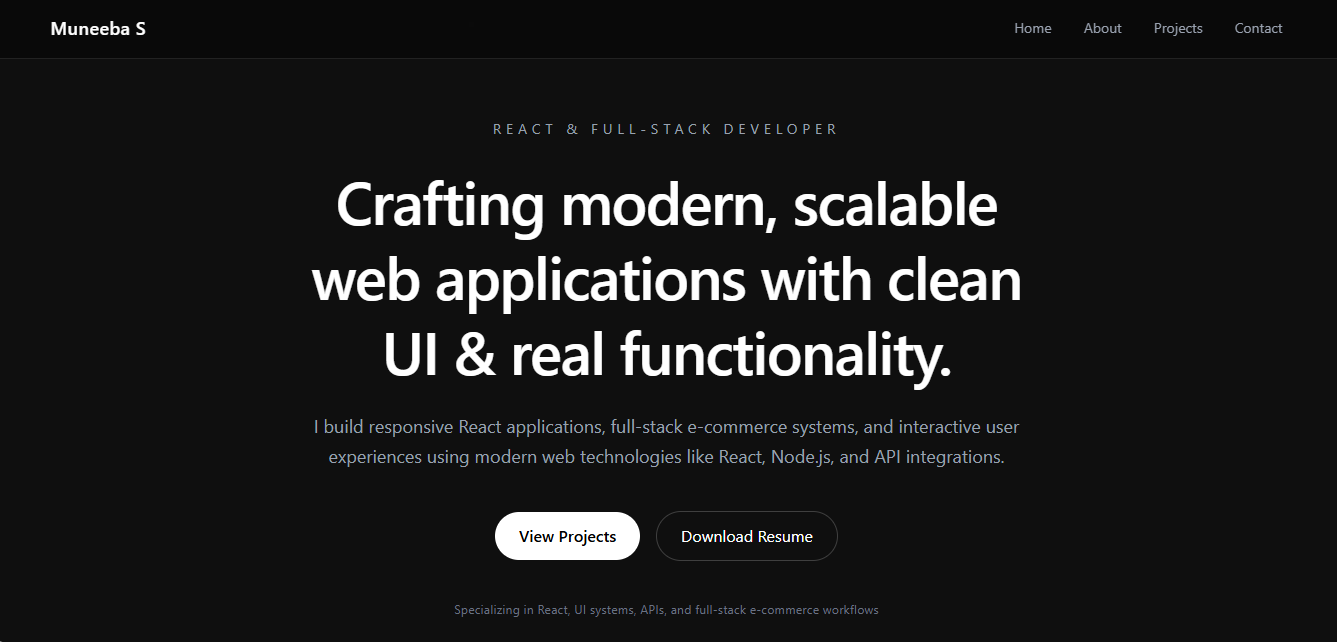
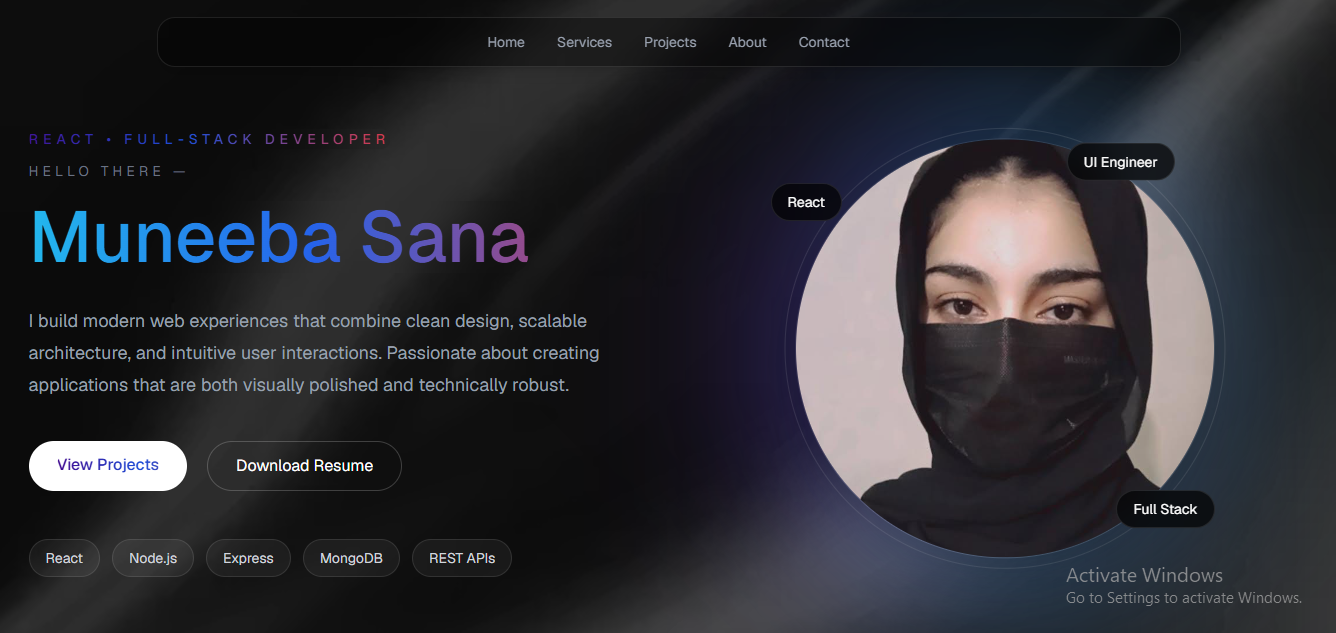
Add professional profile picture to portfolio

diff --git a/src/components/Hero.jsx b/src/components/Hero.jsx
@@ -1,6 +1,7 @@
 import { motion } from "framer-motion";
 import DecryptedText from "./DecryptedText";
 import GradientText from "./GradientText";
+import profilePic from "../assets/profile.jpeg";
 
 function Hero() {
   return (
@@ -164,7 +165,7 @@ Hello There —
   <div className="absolute inset-0 rounded-full border border-white/10 scale-105" />
 
   <img
-    src="https://images.unsplash.com/photo-1708034677699-6f39d9c59f6e?w=500&auto=format&fit=crop&q=60&ixlib=rb-4.1.0&ixid=M3wxMjA3fDB8MHxzZWFyY2h8M3x8YWVzdGhldGljJTIwYW5pbWUlMjBnaXJsJTIwZmljdGlvbnxlbnwwfHwwfHx8MA%3D%3D"
+    src={profilePic}
     alt="Muneeba Sanaullah"
     className="relative w-72 h-72 md:w-[420px] md:h-[420px] rounded-full object-cover border border-white/10 shadow-2xl"
   />
